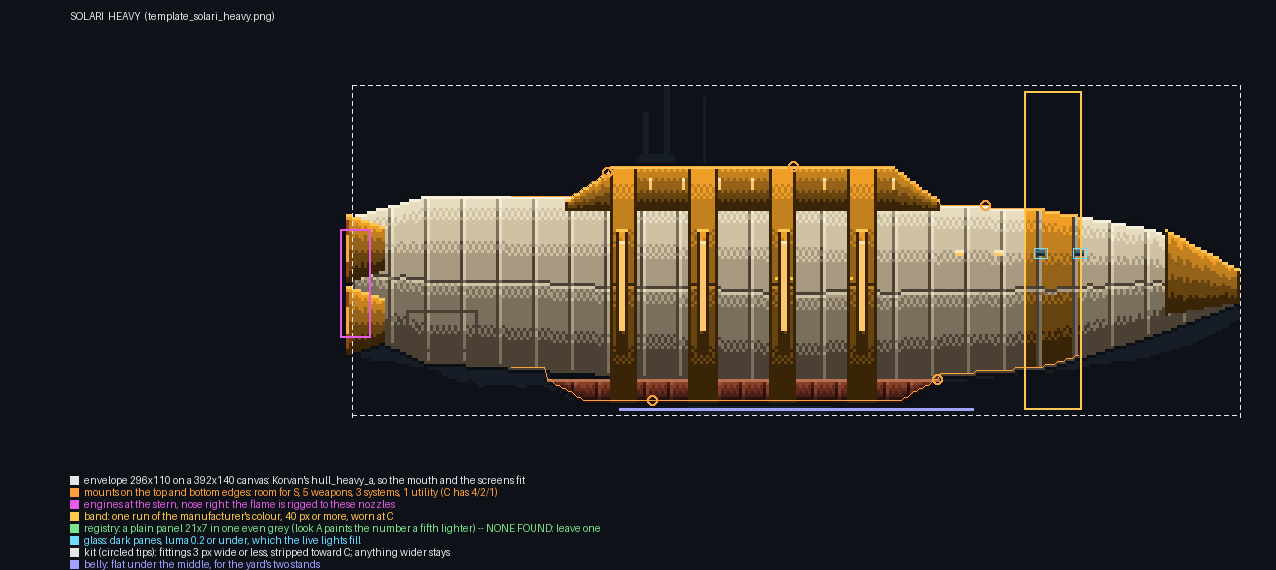
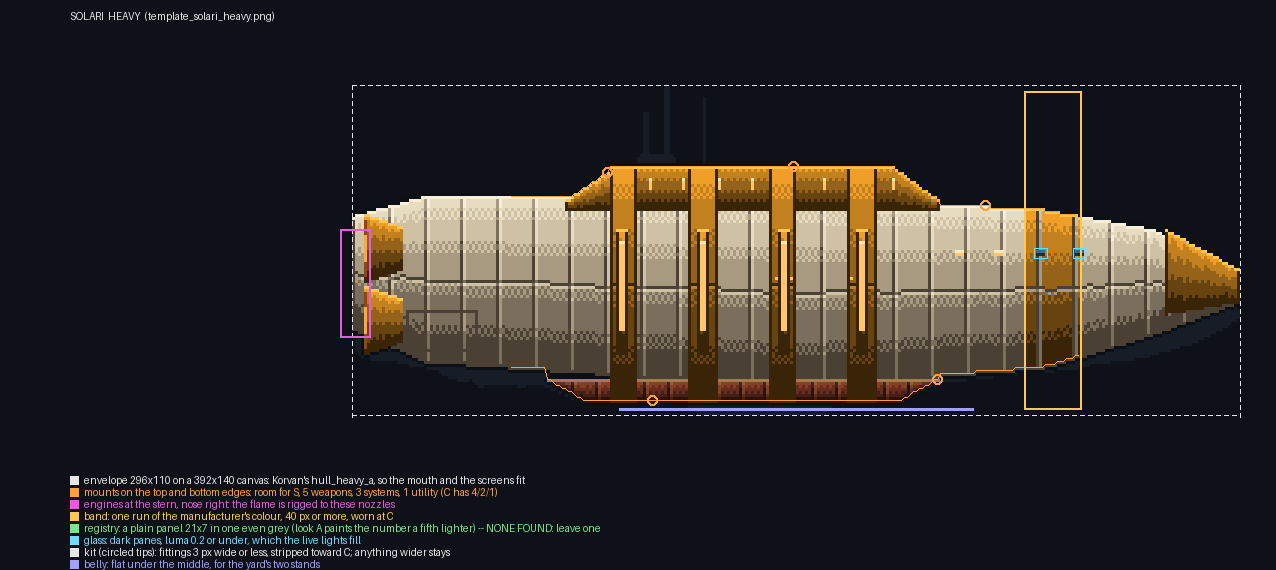
Hull templates: Solari's engine bells sit in the stern instead of sticking out of it (Jon)
Claude-Session: https://claude.ai/code/session_01FQemMvme1wfvjCSMpMkDgS

Changed region(s): [[0.2445, 0.3579, 0.3362, 0.6263]]

diff --git a/tkg/art/tools/hull_template.py b/tkg/art/tools/hull_template.py
@@ -162,20 +162,20 @@ SPECS = {
        ports=[(.32, .45, .9, 3, 3, 2, 1)], hatch=[(.6, .6, .85, .85)]),
      P(('poly', [(.08, .80), (.48, .80), (.44, .87), (.12, .87)]), 'brick', seams=6)] + crest(.12, .44, .34, 6) + rings(.12, .44, .34, .84, 3, low=.87),
    'kit': [],
-   'noz': [(.50, .12), (.68, .12)], 'noz_mat': 'acc'},
+   'noz': [(.50, .12), (.68, .12)], 'noz_mat': 'acc', 'noz_in': 6},
   'medium': {'parts': [
      P(('prof', [(0, .40, .70), (.1, .34, .78), (.5, .34, .82), (.75, .38, .78), (.9, .44, .70), (1, .50, .64)]), 'tile', seams=10,
        rivets=False, belt=.48, ports=[(.3, .62, .8, 4, 3, 2, 2)], band=(.68, .74)),
      P(('poly', [(.08, .80), (.60, .80), (.56, .87), (.12, .87)]), 'brick', seams=8)] + crest(.12, .56, .34, 9) + rings(.12, .56, .34, .82, 3, low=.87),
    'kit': [],
-   'noz': [(.48, .12), (.64, .12)], 'noz_mat': 'acc'},
+   'noz': [(.48, .12), (.64, .12)], 'noz_mat': 'acc', 'noz_in': 6},
   'heavy': {'parts': [
      P(('prof', [(0, .40, .74), (.08, .34, .84), (.5, .34, .92), (.78, .38, .86), (.9, .44, .76), (1, .56, .66)]), 'tile', seams=12, rivets=False,
        belt=.5, ports=[(.28, .66, .84, 4, 3, 2, 2)], band=(.76, .82), hatch=[(.06, .6, .14, .8)]),
      P(('poly', [(.22, .90), (.66, .90), (.62, .96), (.26, .96)]), 'brick', seams=8),
      P(('poly', [(.92, .44), (1, .56), (1, .66), (.92, .70)]), 'acc')] + crest(.26, .62, .34, 9) + rings(.26, .62, .34, .92, 4, low=.96),
    'kit': [],
-   'noz': [(.50, .14), (.72, .14)], 'noz_mat': 'acc'},
+   'noz': [(.50, .14), (.72, .14)], 'noz_mat': 'acc', 'noz_in': 6},
  },
  'probate': {
   'light': {'parts': [
@@ -573,7 +573,9 @@ def render(maker, weight):
         for i in range(bw):
             half = hh // 2 + (bw - i) // 3
             for yy in range(cy - half, cy + half + 1):
-                xx = x0 - 2 + i
+                # noz_in pulls the bells into the stern (Solari: Jon, Oct 15, "it
+                # sticks out of the back")
+                xx = x0 - 2 + i + spec.get('noz_in', 0)
                 f = (yy - (cy - half)) / max(1, 2 * half)
                 nm = acc if spec.get('noz_mat') == 'acc' else MAT[spec.get('noz_mat', 'gun')]
                 c = nm[5] if yy == cy - half else _shade(nm, f, xx, yy)
